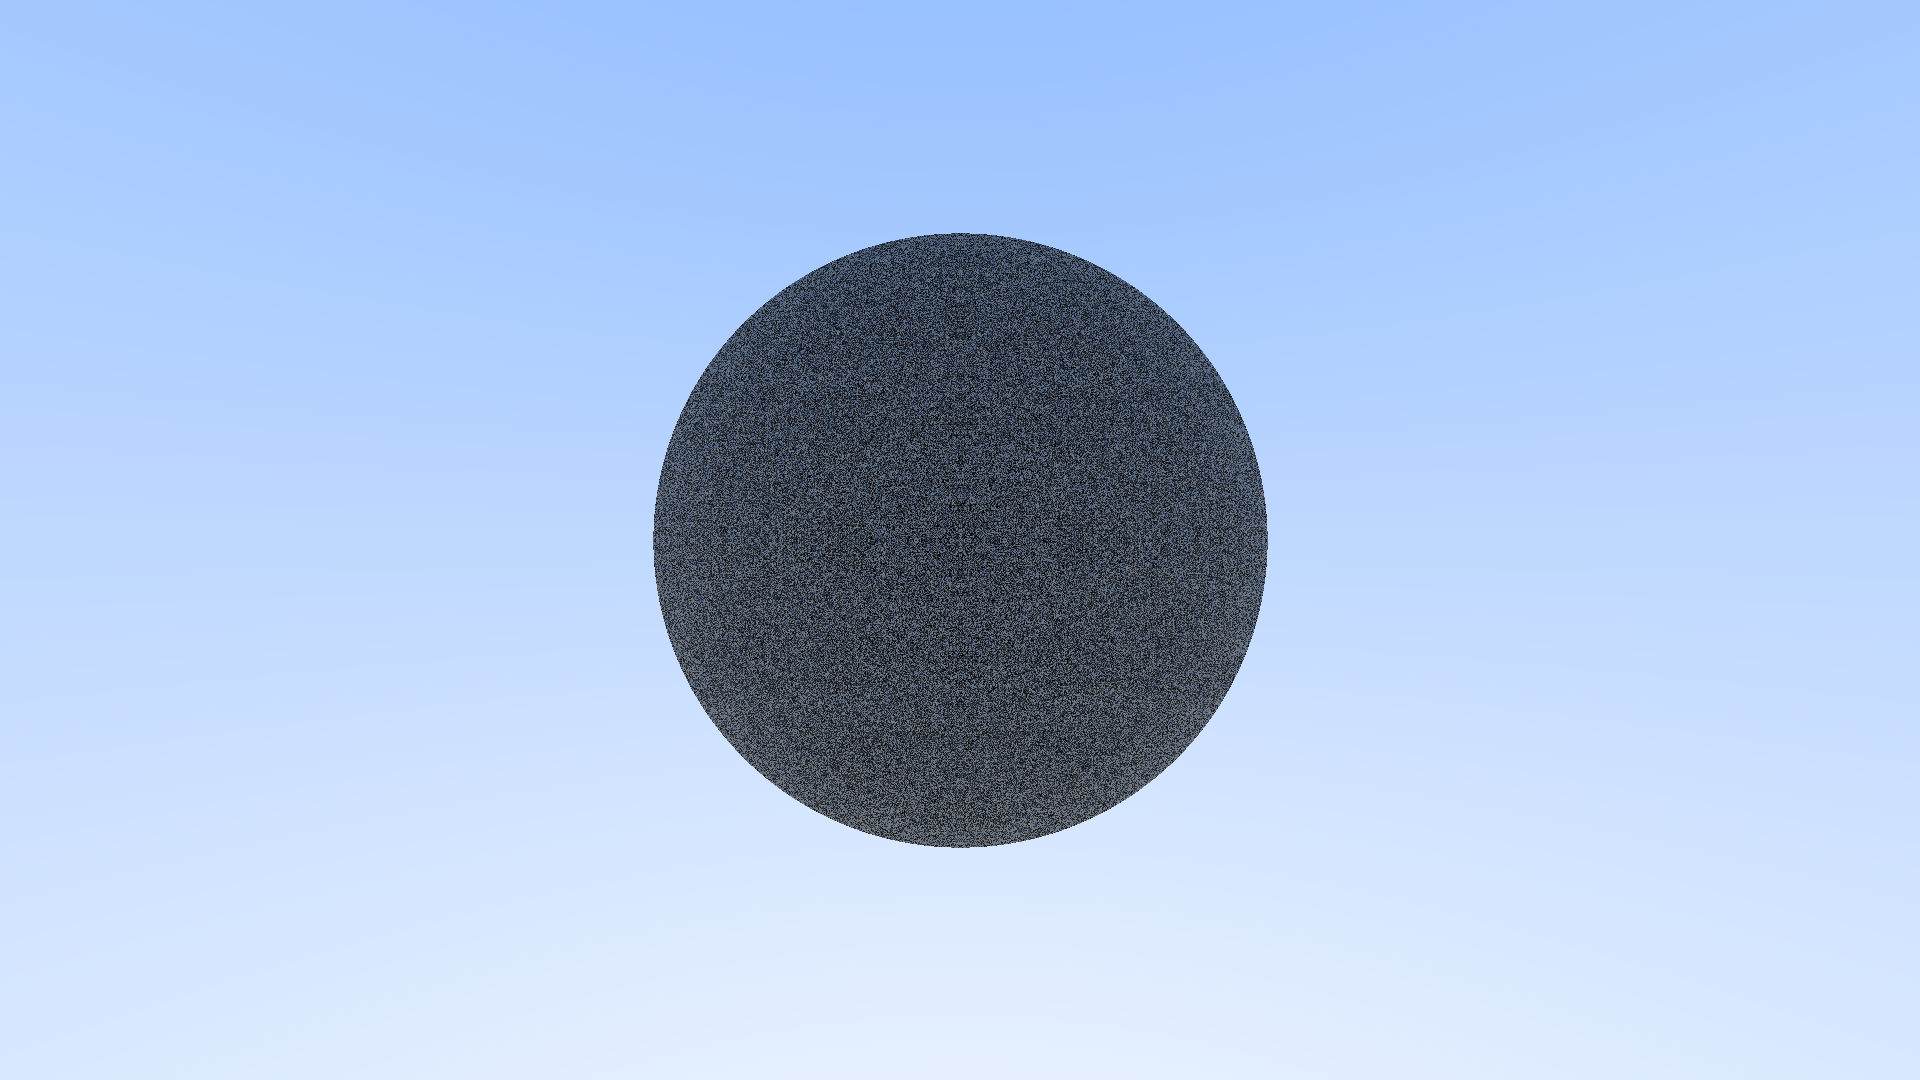
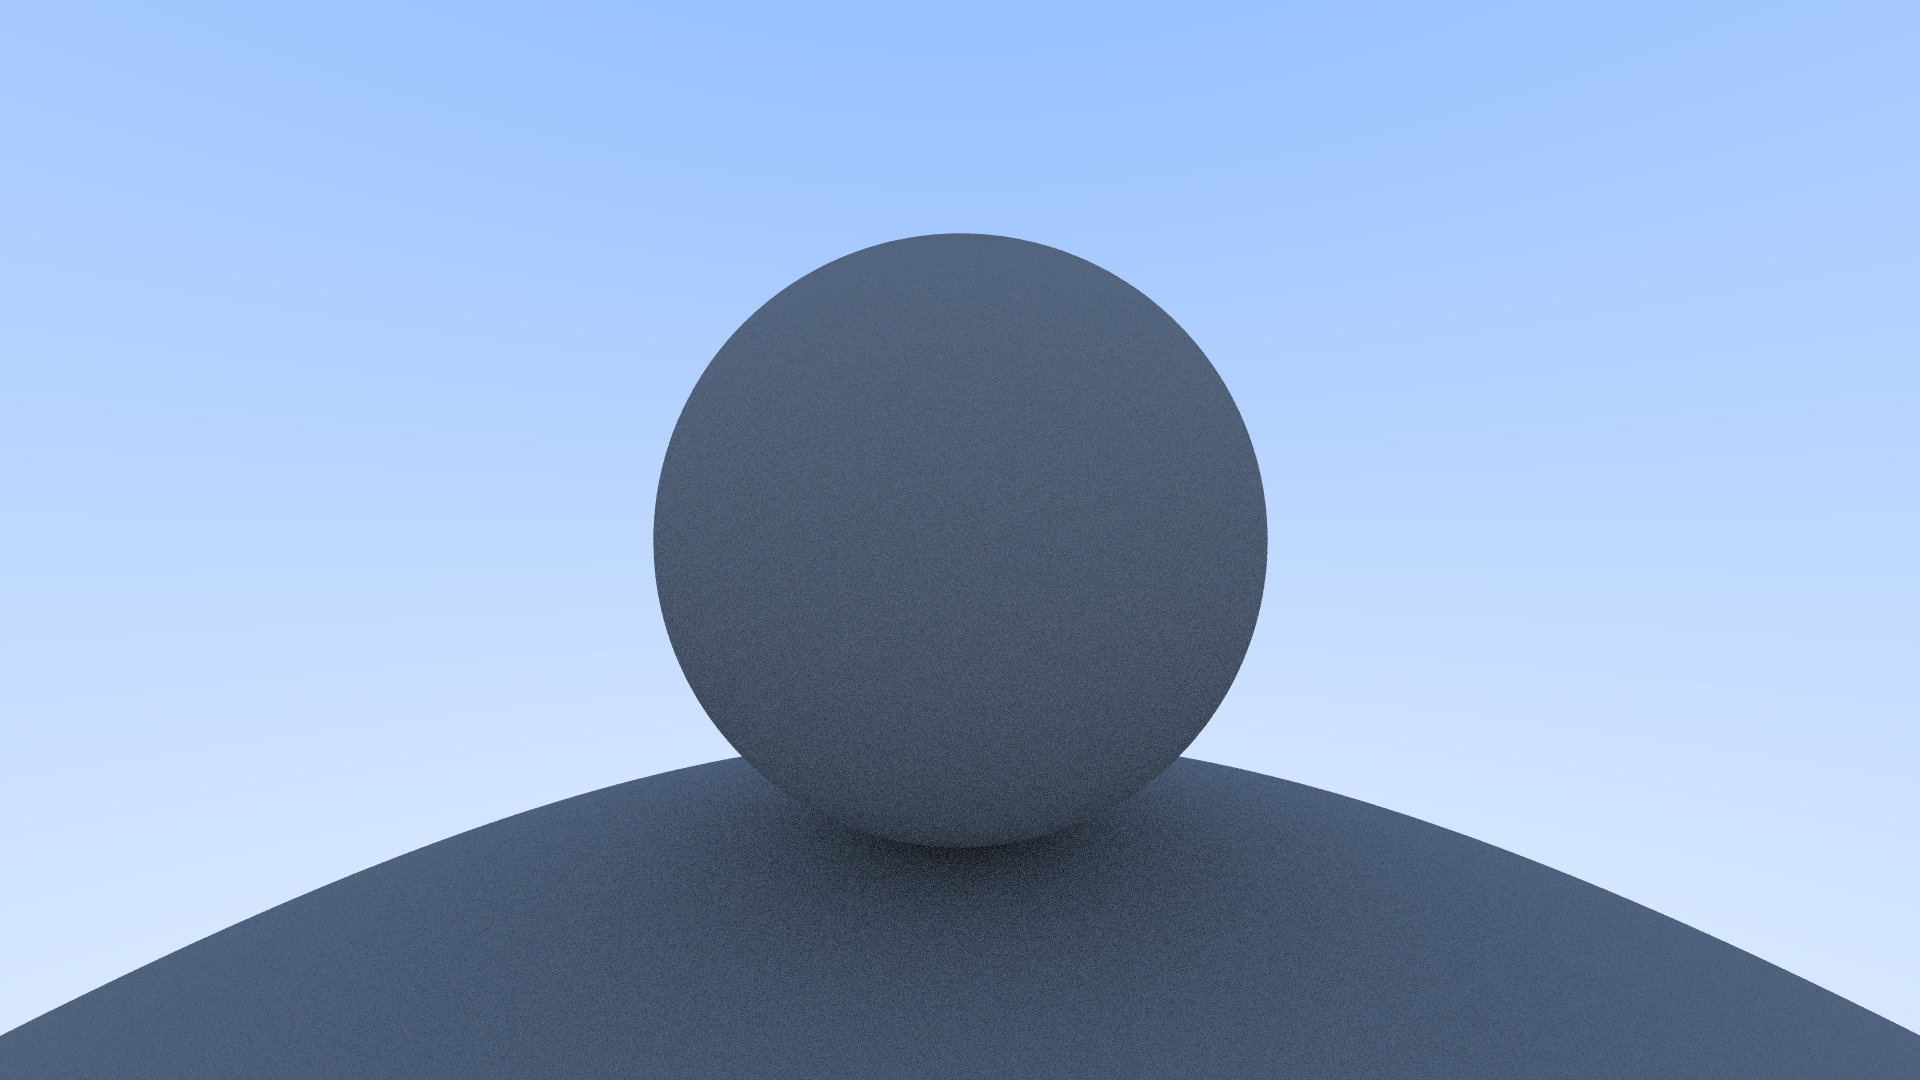
init

diff --git a/src/math/interval.rs b/src/math/interval.rs
@@ -25,10 +25,26 @@ impl Interval {
         }
     }
 
-    pub fn clamp_max(self, max: f64) -> Self {
+    pub fn clamp_high(self, new_high: f64) -> Self {
         match self {
             Interval::Between { low, high } => {
-                let new_high = high.min(max);
+                let res_high = high.min(new_high);
+                if low > res_high {
+                    panic!("Low should not be greater than high after clamping!");
+                }
+                Interval::Between {
+                    low,
+                    high: res_high,
+                }
+            }
+            Interval::LessThan(high) => {
+                let new_high = high.min(new_high);
+                if new_high <= 0.0 {
+                    panic!("High should be greater than 0 after clamping!");
+                }
+                Interval::LessThan(new_high)
+            }
+            Interval::GreaterThan(low) => {
                 if low > new_high {
                     panic!("Low should not be greater than high after clamping!");
                 }
@@ -37,36 +53,33 @@ impl Interval {
                     high: new_high,
                 }
             }
-            Interval::LessThan(high) => {
-                let new_high = high.min(max);
-                if new_high <= 0.0 {
-                    panic!("High should be greater than 0 after clamping!");
-                }
-                Interval::LessThan(new_high)
-            }
-            Interval::GreaterThan(low) => Interval::GreaterThan(low),
-            Interval::Unbounded => Interval::LessThan(max),
+            Interval::Unbounded => Interval::LessThan(new_high),
         }
     }
 
-    pub fn clamp_min(self, min: f64) -> Self {
+    pub fn clamp_low(self, new_low: f64) -> Self {
         match self {
             Interval::Between { low, high } => {
-                let new_low = low.max(min);
+                let res_low = low.max(new_low);
+                if res_low > high {
+                    panic!("Low should not be greater than high after clamping!");
+                }
+                Interval::Between { low: res_low, high }
+            }
+            Interval::LessThan(high) => {
                 if new_low > high {
                     panic!("Low should not be greater than high after clamping!");
                 }
                 Interval::Between { low: new_low, high }
             }
-            Interval::LessThan(high) => Interval::LessThan(high),
             Interval::GreaterThan(low) => {
-                let new_low = low.max(min);
+                let new_low = low.max(new_low);
                 if new_low >= 0.0 {
                     panic!("Low should be less than 0 after clamping!");
                 }
                 Interval::GreaterThan(new_low)
             }
-            Interval::Unbounded => Interval::GreaterThan(min),
+            Interval::Unbounded => Interval::GreaterThan(new_low),
         }
     }
 }

diff --git a/src/tracer/versions/tracer_aa.rs b/src/tracer/versions/tracer_aa.rs
@@ -1,7 +1,10 @@
 use crate::{
     camera::camera::Camera,
     entity::scene::Scene,
-    helpers::types::{color, vec3},
+    helpers::{
+        constants::IGNORE_HIT_EPS,
+        types::{color, vec3},
+    },
     math::panics::PanickingNormalize,
     tracer::ray::ray::Ray,
 };
@@ -21,8 +24,10 @@ impl TracerAa {
         self.sphere_dist.sample(rng).into()
     }
 
-    fn sample_pixel_delta(&self, rng: &mut ThreadRng) -> (f64, f64) {
-        (self.uniform.sample(rng), self.uniform.sample(rng))
+    fn sample_pixel_delta(&self, n_sample: usize, rng: &mut ThreadRng) -> Vec<(f64, f64)> {
+        (0..n_sample)
+            .map(|_| (self.uniform.sample(rng), self.uniform.sample(rng)))
+            .collect()
     }
 
     pub fn color_from_ray(&self, ray: Ray, rng: &mut ThreadRng) -> vec3 {
@@ -32,7 +37,7 @@ impl TracerAa {
             if dir.dot(&hit.normal) < 0.0 {
                 dir = -dir
             }
-            let ray = Ray::new(hit.pos, dir, 0.0);
+            let ray = Ray::new(hit.pos, dir, IGNORE_HIT_EPS);
             0.5 * self.color_from_ray(ray, rng)
         } else {
             // default color based on ix and iy
@@ -42,19 +47,14 @@ impl TracerAa {
     }
 
     pub fn color_at(&self, ix: u32, iy: u32, rng: &mut ThreadRng) -> color {
-        let pixel_orig = self.cam.image_space.pixel_center_at(ix, iy)
-            - self.cam.image_space.xdir * 0.5
-            - self.cam.image_space.ydir * 0.5;
+        let pixel_lefttop = self.cam.image_space.pixel_lefttop_at(ix, iy);
 
         let n_sample = 16;
-        let deltas: Vec<_> = (0..n_sample)
-            .map(|_| self.sample_pixel_delta(rng))
-            .collect();
+        let deltas: Vec<_> = self.sample_pixel_delta(n_sample, rng);
 
         let mut color = vec3::zeros();
         for (dx, dy) in deltas {
-            let pixel =
-                pixel_orig + self.cam.image_space.xdir * dx + self.cam.image_space.ydir * dy;
+            let pixel = pixel_lefttop + self.cam.image_space.pixel_offset(dx, dy);
 
             let v = pixel - self.cam.pos;
             let mag = v.magnitude();

diff --git a/src/main.rs b/src/main.rs
@@ -1,13 +1,13 @@
 use image::RgbImage;
 use nalgebra_glm::UVec2;
 use rand::rngs::ThreadRng;
-use rand_distr::UnitSphere;
+use rand_distr::{Uniform, UnitSphere};
 use rayon::iter::ParallelIterator;
 use raytrace::{
     camera::camera::CameraBuilder,
     entity::{analytic::sphere::Sphere, scene::Scene, traits::Entity},
     helpers::types::vec3,
-    tracer::versions::tracer_simple::TracerSimple,
+    tracer::versions::tracer_aa::TracerAa,
 };
 use std::{f64::consts::PI, sync::Arc};
 
@@ -25,14 +25,22 @@ fn main() {
 
     let mut ents: Vec<Arc<dyn Entity>> = Vec::new();
     ents.push(Arc::new(Sphere::new(vec3::new(5.0, 0.0, 0.0), 2.0)));
+    ents.push(Arc::new(Sphere::new(vec3::new(5.0, -18.0, 0.0), 16.0)));
 
     let scene = Scene::new(ents);
 
     let mut img = RgbImage::new(cam.resolution.x, cam.resolution.y);
-    let tracer = TracerSimple {
+    // let tracer = TracerSimple {
+    //     cam,
+    //     scene,
+    //     sphere_dist: UnitSphere,
+    // };
+
+    let tracer = TracerAa {
         cam,
         scene,
         sphere_dist: UnitSphere,
+        uniform: Uniform::new(0.0, 1.0),
     };
 
     img.par_enumerate_pixels_mut().for_each(|(ix, iy, px)| {

diff --git a/src/camera/camera.rs b/src/camera/camera.rs
@@ -31,7 +31,18 @@ pub struct ImageSpace {
 impl ImageSpace {
     /// ### Maps image space coords to world coords
     pub fn pixel_center_at(&self, ix: u32, iy: u32) -> vec3 {
-        self.orig + (self.xdir * self.delta * ix as f64) + (self.ydir * self.delta * iy as f64)
+        self.orig + self.pixel_offset(ix as f64, iy as f64)
+    }
+
+    /// ### Maps image space coords to world coords
+    pub fn pixel_lefttop_at(&self, ix: u32, iy: u32) -> vec3 {
+        self.orig + self.pixel_offset(ix as f64 - 0.5, iy as f64 - 0.5)
+    }
+
+    #[inline]
+    // ### Pixel offset of given number of pixels in world coords
+    pub fn pixel_offset(&self, ndx: f64, ndy: f64) -> vec3 {
+        (self.xdir * self.delta * ndx as f64) + (self.ydir * self.delta * ndy as f64)
     }
 }
 

diff --git a/src/entity/scene.rs b/src/entity/scene.rs
@@ -18,7 +18,7 @@ impl Scene {
 
 impl Scene {
     pub fn hit_by(&self, ray: Ray) -> Option<Hit> {
-        let interval = Interval::GreaterThan(ray.tmin);
+        let mut interval = Interval::GreaterThan(ray.tmin);
 
         let mut scene_hit = None;
 
@@ -26,7 +26,7 @@ impl Scene {
         for ent in self.entities.clone() {
             if let Some(hit) = ent.hit_by(ray, interval) {
                 scene_hit = Some(hit);
-                interval.clamp_max(hit.t);
+                interval = interval.clamp_high(hit.t);
             }
         }
 

diff --git a/src/helpers/mod.rs b/src/helpers/mod.rs
@@ -3,3 +3,4 @@
 
 pub mod traits;
 pub mod types;
+pub mod constants;

diff --git a/src/helpers/constants.rs b/src/helpers/constants.rs
@@ -1,0 +1,1 @@
+pub const IGNORE_HIT_EPS: f64 = 0.0001;
